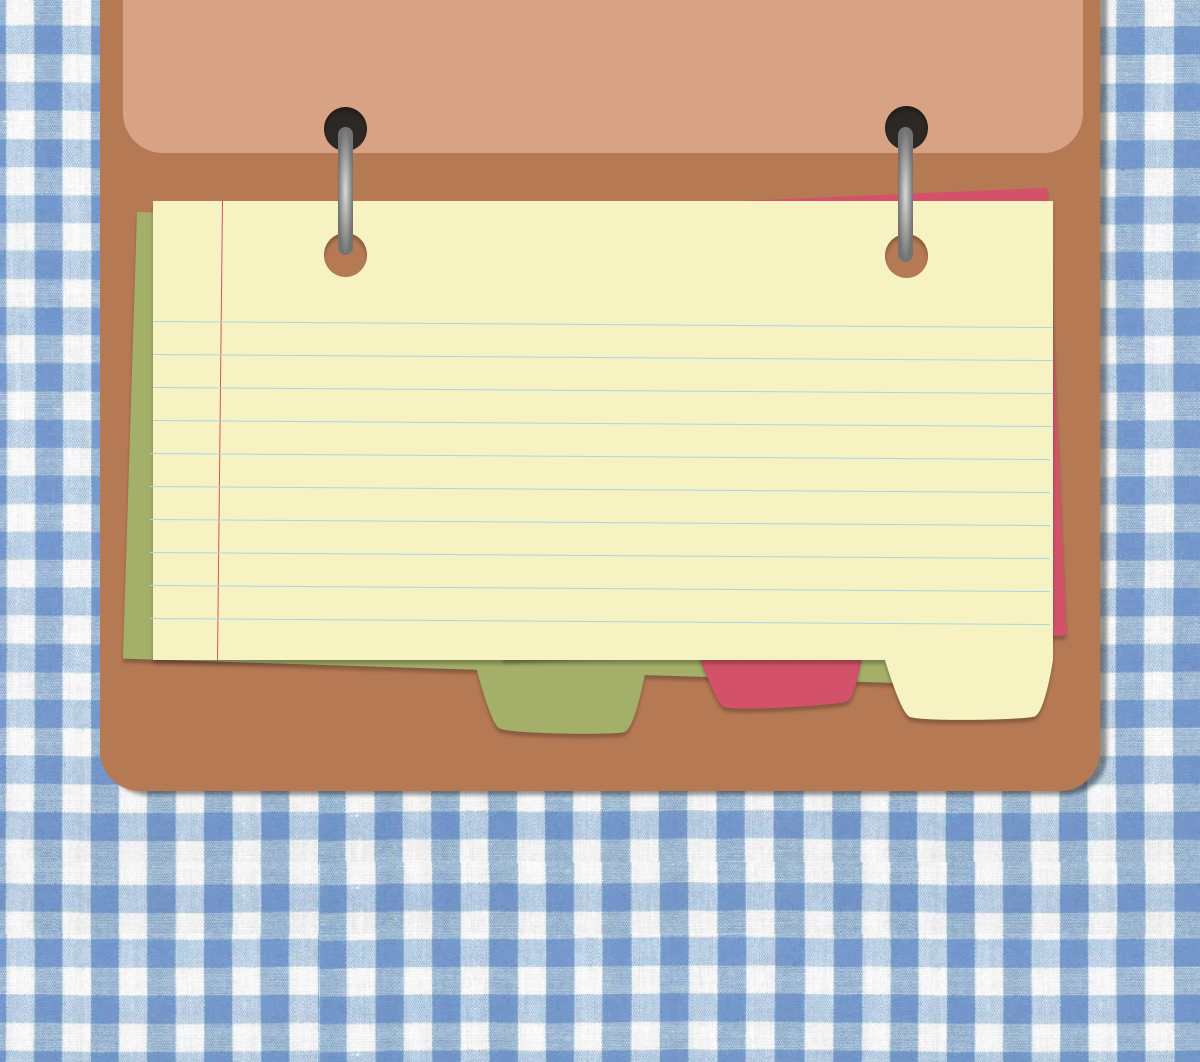
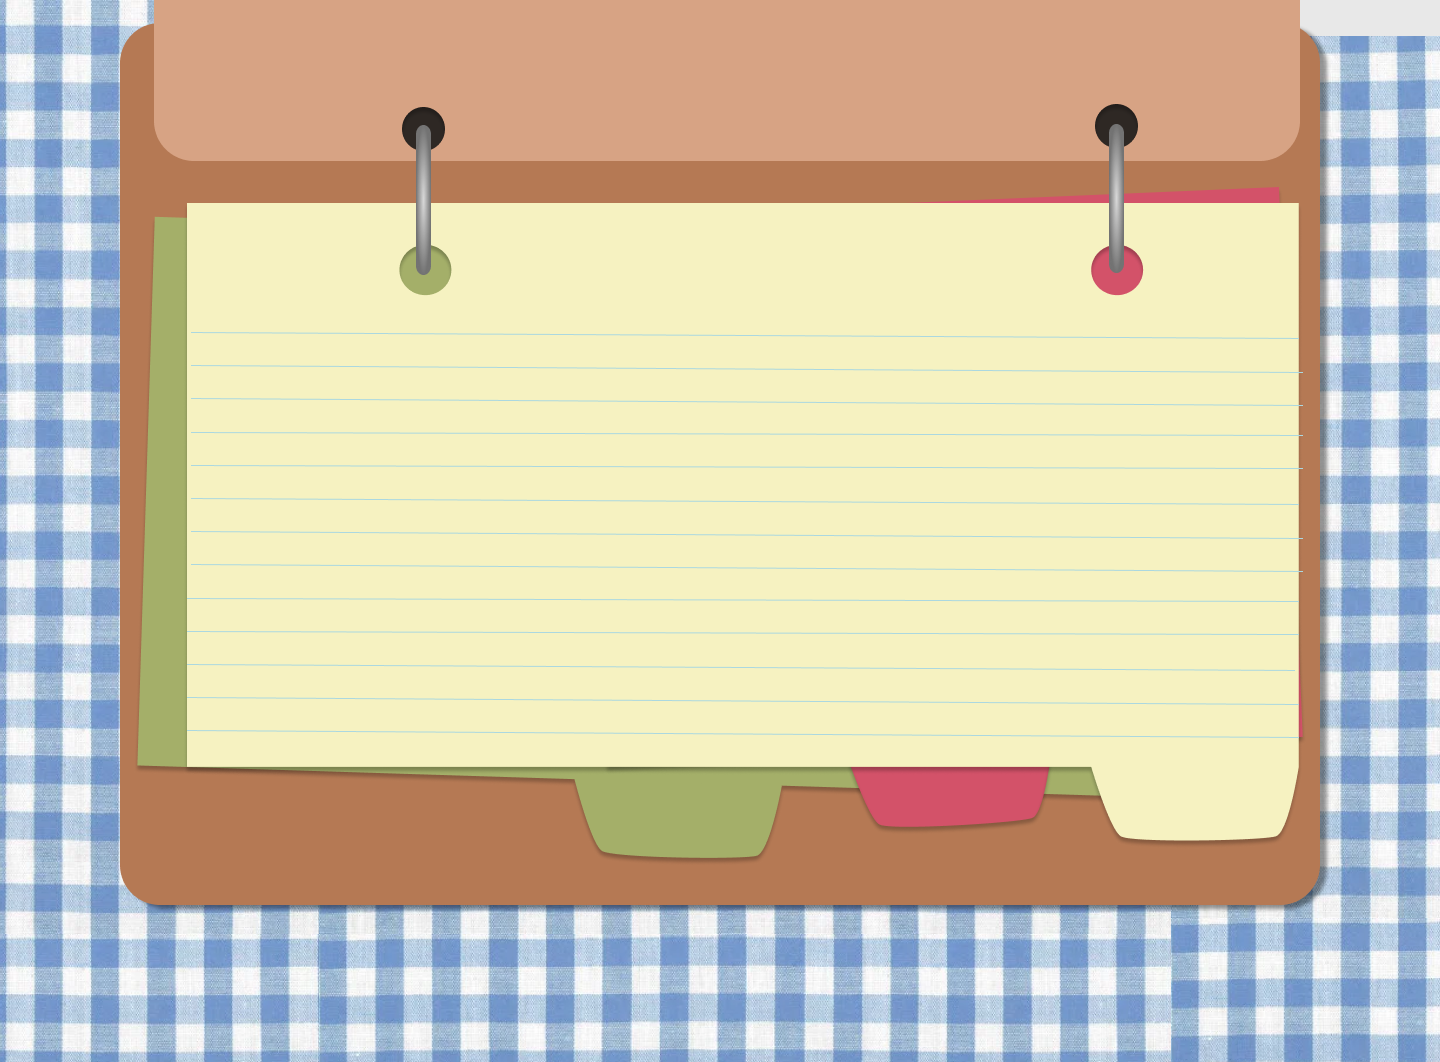
( ◕ ◞ ◕ ) auto commit

diff --git a/index.html b/index.html
@@ -31,7 +31,7 @@
 /* Background image of recipe book + gingham */
       body {
         background-image: url("homepage.png");
-        width: 1200px;
+        width: 1440px;
         margin: 5px;
       }
       
@@ -64,7 +64,7 @@
         background-color: white;
         margin: 0px;
         padding-left: 30px;
-        width: 1200px;
+        width: 1440px;
         height: 70px;
         margin-top: -5px;
         margin-left: -5px;
@@ -73,14 +73,14 @@
       nav h1 {
         display: inline;
         float: left;
-        margin-left: -30px;
+        margin-left: -25px;
         margin-top: 6.5px;
       }
 
       nav h2 {
         display: inline;
         float: right;
-        margin-right: -50;
+        margin-right: -100;
         position: relative;
         right: 150px;
       }
@@ -106,27 +106,29 @@
         color: #D35269;
       }
       
-      sections a {
+      .sections a {
         text-decoration: none;
         color: black;
       }
       
-        sections a:hover {
+      .sections a:hover {
         color: #D35269;
       }
       
-      .container {
+     .container {
         display: grid;
         grid-template-columns: 33% 33% 33%;
         width: 800px;
         text-align: center;
+       justify-content: center;
         margin: 0 auto;
+        gap: 75px;
       }
 
       .recipe-icons {
         min-height: 10px;
         min-width: 10px;
-        gap: 5px;
+        text-align: center;
       }
       
       .recipe-icons h3{
@@ -160,7 +162,7 @@
         <h2><a href="options.html">RECIPES</a></h2>
       </ul>
     </nav>
-    <sections>
+    <div class="sections">
     <div class="title-section">
       <h4>Elena's Digital Recipe Archive</h4>
     </div>
@@ -176,8 +178,7 @@
     <div class="recipe-icons">
           <img src="icecream.png" alt="A metal container of partially scooped vanilla icecream">
           <h3><a href="options.html">Frozen</a></h3>
-          </sections>
         </div>
-    </div>
+      </div>
   </body>
 </html>

diff --git a/recipepage.html b/recipepage.html
@@ -40,7 +40,7 @@
       /* Background image of recipe book + gingham */
       body {
         background-image: url("recipebackground.png");
-        width: 1200px;
+        width: 1440px;
         height: 1300px;
         margin: 5px;
       }
@@ -130,6 +130,7 @@
         min-height: 10px;
         min-width: 10px;
         gap: 5px;
+        bacground-color: red;
       }
     </style>
     
